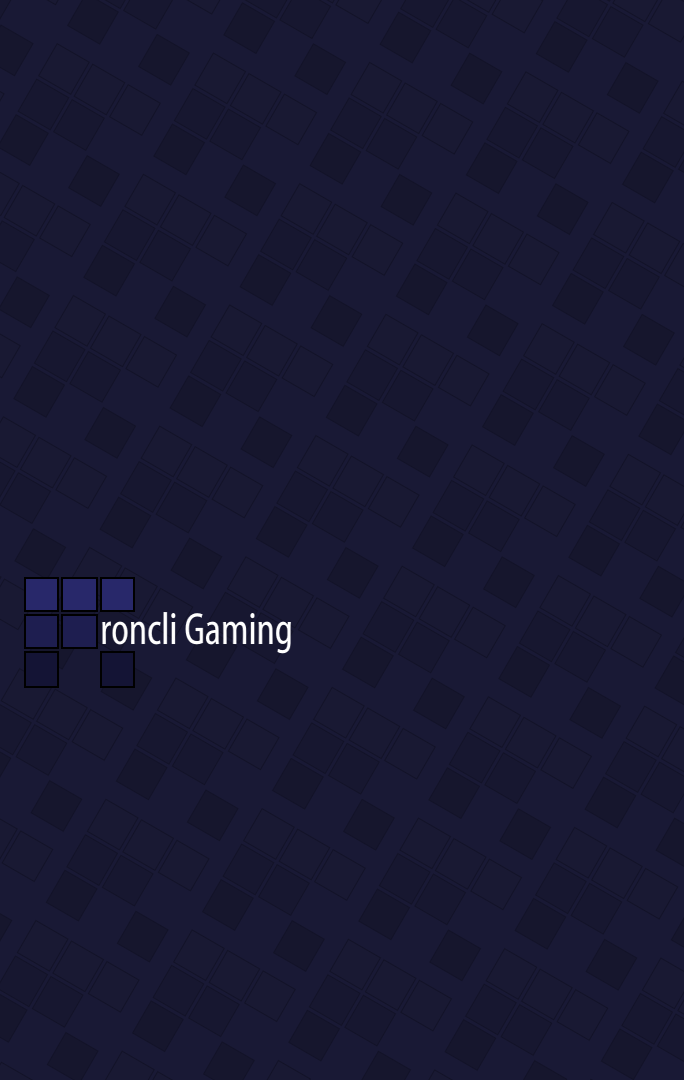
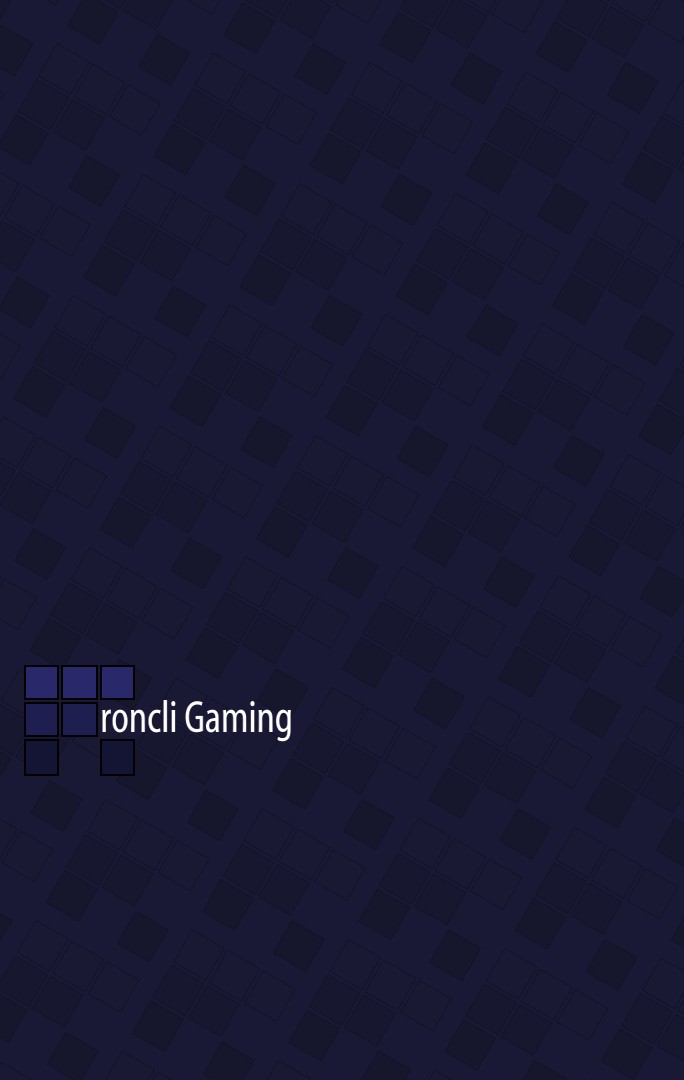
CTM 4.0b stencil.
Fixes #302.

Changed region(s): [[0.0307, 0.5194, 0.4298, 0.7028]]

diff --git a/public/js/home.js b/public/js/home.js
@@ -28,6 +28,22 @@ class Home {
         Home.spotify = false;
     }
 
+    //                          ##                #     #      #
+    //                         #  #               #           # #
+    // # #    ##   # #    ##    #    ###    ##   ###   ##     #    #  #
+    // ####  #  #  # #   # ##    #   #  #  #  #   #     #    ###   #  #
+    // #  #  #  #  # #   ##    #  #  #  #  #  #   #     #     #     # #
+    // #  #   ##    #     ##    ##   ###    ##     ##  ###    #      #
+    //                               #                              #
+    /**
+     * Move Spotify to the specified top position.
+     * @param {string} top The top position.
+     * @returns {void}
+     */
+    static moveSpotify(top) {
+        document.getElementById("spotify").style.top = top;
+    }
+
     //          #                    #       #                   ##                    #
     //          #                    #      # #                   #
     //   ###   ####    ###   # ##   ####   #   #  # ##    ###     #    #   #   ###    ##     ###
@@ -47,6 +63,8 @@ class Home {
         await window.Common.loadTemplate("/js/?files=/views/home/analysis.js", "AnalysisView");
 
         await window.Common.loadDataIntoTemplate("/api/config/roncliGaming", "#scene", window.AnalysisView.get);
+
+        Home.moveSpotify("");
 
         window.Game.start();
     }
@@ -68,6 +86,8 @@ class Home {
 
         await window.Common.loadDataIntoTemplate("/api/config/roncliGaming", "#scene", window.CTMView.get);
 
+        Home.moveSpotify("586px");
+
         window.Game.start();
     }
 
@@ -85,6 +105,8 @@ class Home {
         await window.Common.loadTemplate("/js/?files=/views/home/frame.js,/js/home/frame.js", "FrameView");
 
         document.getElementById("scene").innerHTML = window.FrameView.get(true);
+
+        Home.moveSpotify("");
 
         window.Frame.start();
     }
@@ -105,6 +127,8 @@ class Home {
         await window.Common.loadTemplate("/js/?files=/views/home/game.js", "GameView");
 
         await window.Common.loadDataIntoTemplate("/api/config/roncliGaming", "#scene", window.GameView.get);
+
+        Home.moveSpotify("");
 
         window.Game.start();
     }
@@ -133,6 +157,8 @@ class Home {
         if (bannerDiv) {
             bannerDiv.style.backgroundImage = `url(${banner})`;
         }
+
+        Home.moveSpotify("");
 
         window.Game.start();
     }

diff --git a/public/css/home.css b/public/css/home.css
@@ -491,9 +491,9 @@ div#ctm {
 
 div#ctm div#title {
     position: absolute;
-    top: 577px;
+    top: 665px;
     right: 24px;
-    width: 684px;
+    width: 365px;
     text-align: right;
 }
 
@@ -507,7 +507,7 @@ div#ctm div#title div.text {
 
 div#ctm div#info {
     position: absolute;
-    top: 712px;
+    top: 800px;
     left: 24px;
     width: 636px;
     font-size: 18px;
@@ -548,9 +548,10 @@ div#ctm div#notification div.notification .message {
 
 div#ctm div#elapsed {
     position: absolute;
-    top: 446px;
+    left: 24px;
+    top: 586px;
     width: 636px;
-    text-align: center;
+    text-align: left;
     color: white;
     font-size: 72px;
 }
